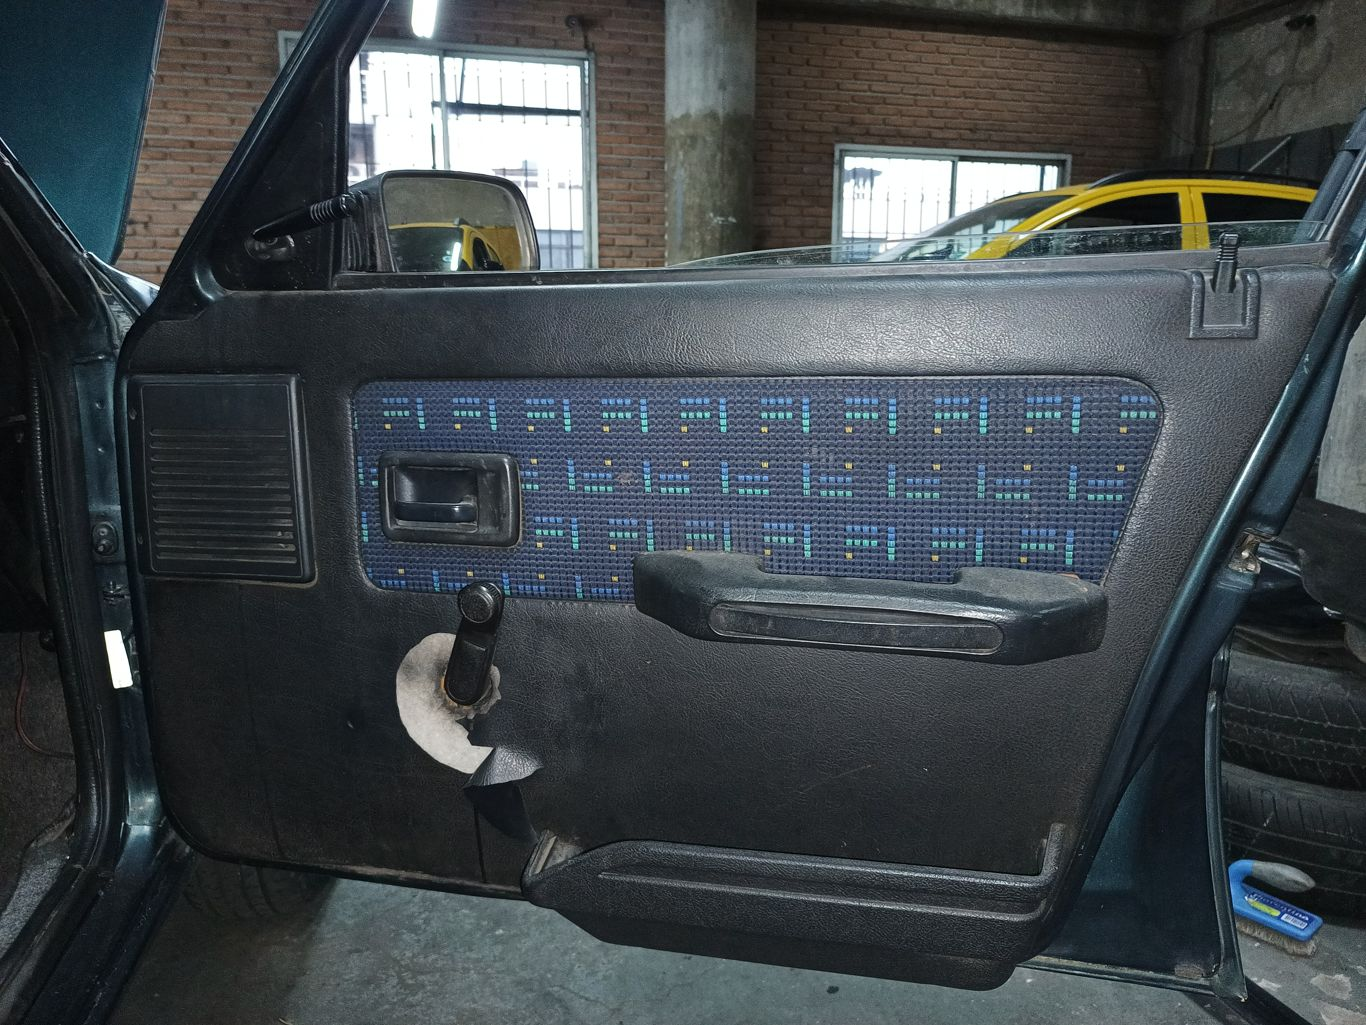
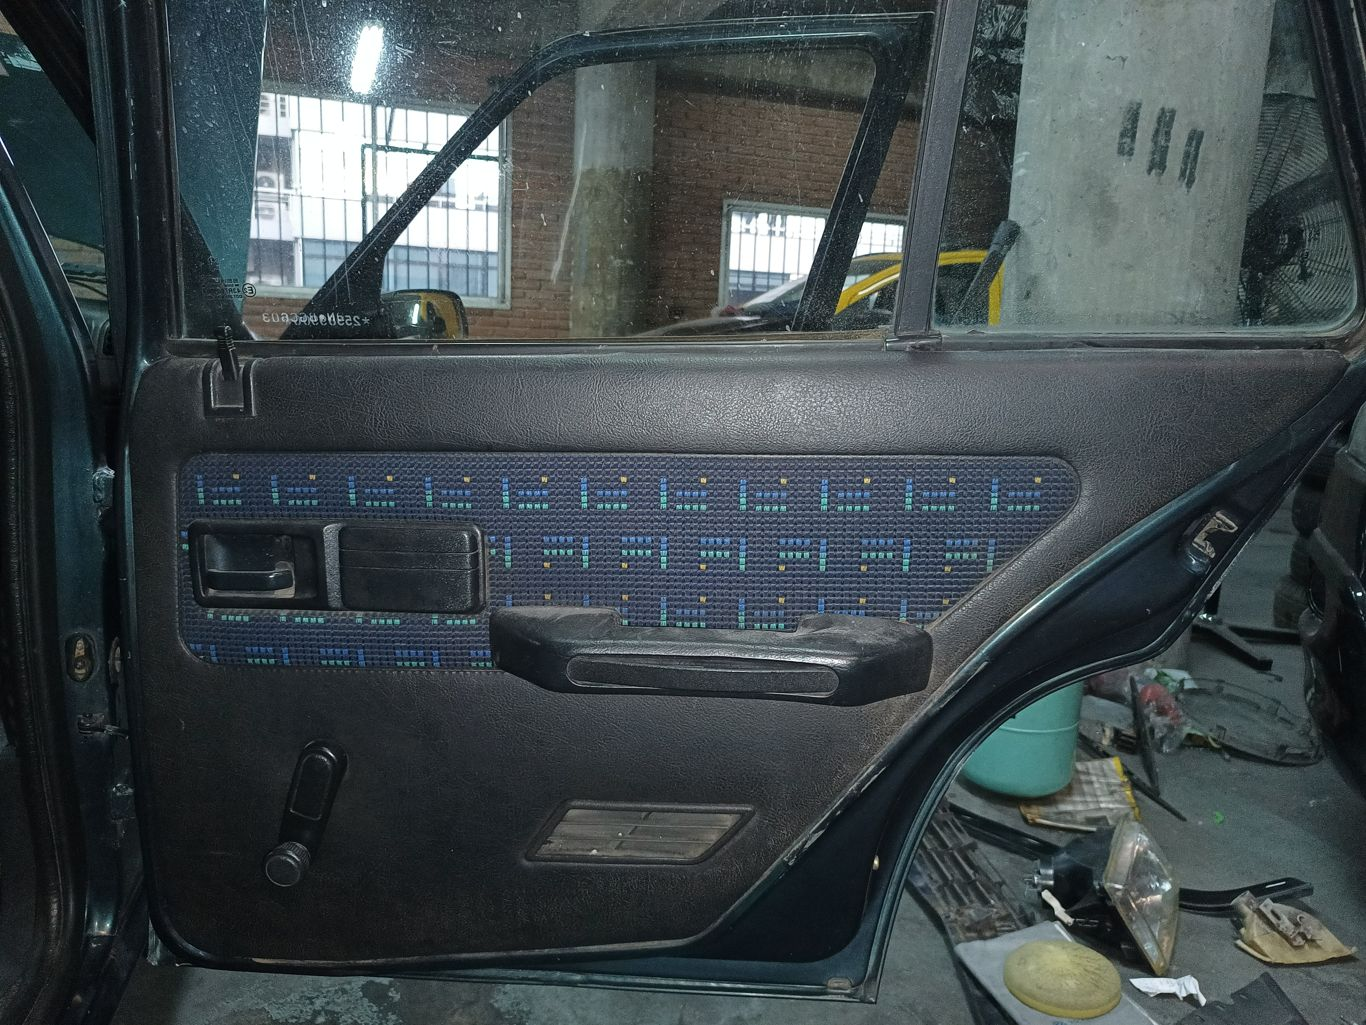
correcion de carrusel

diff --git a/src/data/galeria.ts b/src/data/galeria.ts
@@ -145,6 +145,16 @@ export const TRABAJOS: TrabajoGaleria[] = [
         "parte": "chevrolet interior butaca delantera"
       },
       {
+        "src": "/galeria/detailing-interior/chevrolet-spin/antes/chevrolet-interior-consola-antes-01-20220119.jpg",
+        "alt": "chevrolet interior consola (antes) — Chevrolet Spin",
+        "parte": "chevrolet interior consola"
+      },
+      {
+        "src": "/galeria/detailing-interior/chevrolet-spin/antes/chevrolet-interior-consola-antes-02-20220119.jpg",
+        "alt": "chevrolet interior consola (antes) — Chevrolet Spin",
+        "parte": "chevrolet interior consola"
+      },
+      {
         "src": "/galeria/detailing-interior/chevrolet-spin/antes/chevrolet-interior-panel-puerta-antes-01-20220119.jpg",
         "alt": "chevrolet interior panel puerta (antes) — Chevrolet Spin",
         "parte": "chevrolet interior panel puerta"
@@ -160,12 +170,12 @@ export const TRABAJOS: TrabajoGaleria[] = [
         "parte": "chevrolet interior volante"
       },
       {
-        "src": "/galeria/detailing-interior/chevrolet-spin/antes/chevrolet-spin-baul-despues-01-20220419.jpg",
-        "alt": "baul (antes) — Chevrolet Spin",
-        "parte": "baul"
+        "src": "/galeria/detailing-interior/chevrolet-spin/antes/chevrolet-spin-butaca-delantera-antes-01-20220420.jpg",
+        "alt": "butaca delantera (antes) — Chevrolet Spin",
+        "parte": "butaca delantera"
       },
       {
-        "src": "/galeria/detailing-interior/chevrolet-spin/antes/chevrolet-spin-butaca-delantera-antes-01-20220420.jpg",
+        "src": "/galeria/detailing-interior/chevrolet-spin/antes/chevrolet-spin-butaca-delantera-antes-01-20220426.jpg",
         "alt": "butaca delantera (antes) — Chevrolet Spin",
         "parte": "butaca delantera"
       },
@@ -185,9 +195,9 @@ export const TRABAJOS: TrabajoGaleria[] = [
         "parte": "butaca delantera"
       },
       {
-        "src": "/galeria/detailing-interior/chevrolet-spin/antes/chevrolet-spin-butaca-delantera-despues-03-20220420.jpg",
-        "alt": "butaca delantera (antes) — Chevrolet Spin",
-        "parte": "butaca delantera"
+        "src": "/galeria/detailing-interior/chevrolet-spin/antes/chevrolet-spin-butaca-trasera-antes-01-20220420.jpg",
+        "alt": "butaca trasera (antes) — Chevrolet Spin",
+        "parte": "butaca trasera"
       },
       {
         "src": "/galeria/detailing-interior/chevrolet-spin/antes/chevrolet-spin-consola-antes-01-20220418.jpg",
@@ -201,11 +211,6 @@ export const TRABAJOS: TrabajoGaleria[] = [
       },
       {
         "src": "/galeria/detailing-interior/chevrolet-spin/antes/chevrolet-spin-consola-antes-04-20220418.jpg",
-        "alt": "consola (antes) — Chevrolet Spin",
-        "parte": "consola"
-      },
-      {
-        "src": "/galeria/detailing-interior/chevrolet-spin/antes/chevrolet-spin-consola-despues-02-20220418.jpg",
         "alt": "consola (antes) — Chevrolet Spin",
         "parte": "consola"
       },
@@ -297,16 +302,6 @@ export const TRABAJOS: TrabajoGaleria[] = [
         "parte": "chevrolet interior butaca delantera"
       },
       {
-        "src": "/galeria/detailing-interior/chevrolet-spin/despues/chevrolet-interior-consola-antes-01-20220119.jpg",
-        "alt": "chevrolet interior consola (despues) — Chevrolet Spin",
-        "parte": "chevrolet interior consola"
-      },
-      {
-        "src": "/galeria/detailing-interior/chevrolet-spin/despues/chevrolet-interior-consola-antes-02-20220119.jpg",
-        "alt": "chevrolet interior consola (despues) — Chevrolet Spin",
-        "parte": "chevrolet interior consola"
-      },
-      {
         "src": "/galeria/detailing-interior/chevrolet-spin/despues/chevrolet-interior-panel-puerta-despues-01-20220119.jpg",
         "alt": "chevrolet interior panel puerta (despues) — Chevrolet Spin",
         "parte": "chevrolet interior panel puerta"
@@ -327,14 +322,19 @@ export const TRABAJOS: TrabajoGaleria[] = [
         "parte": "chevrolet interior volante"
       },
       {
-        "src": "/galeria/detailing-interior/chevrolet-spin/despues/chevrolet-spin-butaca-delantera-antes-01-20220426.jpg",
+        "src": "/galeria/detailing-interior/chevrolet-spin/despues/chevrolet-spin-baul-despues-01-20220419.jpg",
+        "alt": "baul (despues) — Chevrolet Spin",
+        "parte": "baul"
+      },
+      {
+        "src": "/galeria/detailing-interior/chevrolet-spin/despues/chevrolet-spin-butaca-delantera-despues-03-20220420.jpg",
         "alt": "butaca delantera (despues) — Chevrolet Spin",
         "parte": "butaca delantera"
       },
       {
-        "src": "/galeria/detailing-interior/chevrolet-spin/despues/chevrolet-spin-butaca-trasera-antes-01-20220420.jpg",
-        "alt": "butaca trasera (despues) — Chevrolet Spin",
-        "parte": "butaca trasera"
+        "src": "/galeria/detailing-interior/chevrolet-spin/despues/chevrolet-spin-consola-despues-02-20220418.jpg",
+        "alt": "consola (despues) — Chevrolet Spin",
+        "parte": "consola"
       },
       {
         "src": "/galeria/detailing-interior/chevrolet-spin/despues/chevrolet-spin-consola-despues-02-20220419.jpg",
@@ -362,18 +362,13 @@ export const TRABAJOS: TrabajoGaleria[] = [
         "parte": "tablero"
       },
       {
-        "src": "/galeria/detailing-interior/chevrolet-spin/despues/chevrolet-spin-techo-antes-01-20220419.jpg",
-        "alt": "techo (despues) — Chevrolet Spin",
-        "parte": "techo"
-      },
-      {
         "src": "/galeria/detailing-interior/chevrolet-spin/despues/chevrolet-spin-techo-despues-04-20220420.jpg",
         "alt": "techo (despues) — Chevrolet Spin",
         "parte": "techo"
       }
     ],
     "portada": "/galeria/detailing-interior/chevrolet-spin/despues/chevrolet-interior-butaca-delantera-despues-01-20220119.jpg",
-    "totalFotos": 54
+    "totalFotos": 53
   },
   {
     "id": "detailing-interior--peugeot-205",
@@ -382,6 +377,11 @@ export const TRABAJOS: TrabajoGaleria[] = [
     "servicio": "Estética interior",
     "titulo": "Peugeot 205 · Estética interior",
     "antes": [
+      {
+        "src": "/galeria/detailing-interior/peugeot-205/antes/peugeot-205-apoyacabezas-antes-01-20220805.jpg",
+        "alt": "apoyacabezas (antes) — Peugeot 205",
+        "parte": "apoyacabezas"
+      },
       {
         "src": "/galeria/detailing-interior/peugeot-205/antes/peugeot-205-baul-antes-01-20220124.jpg",
         "alt": "baul (antes) — Peugeot 205",
@@ -463,7 +463,17 @@ export const TRABAJOS: TrabajoGaleria[] = [
         "parte": "tablero"
       },
       {
+        "src": "/galeria/detailing-interior/peugeot-205/antes/peugeot-205-tablero-antes-01-20220720.jpg",
+        "alt": "tablero (antes) — Peugeot 205",
+        "parte": "tablero"
+      },
+      {
         "src": "/galeria/detailing-interior/peugeot-205/antes/peugeot-205-tablero-antes-02-20220124.jpg",
+        "alt": "tablero (antes) — Peugeot 205",
+        "parte": "tablero"
+      },
+      {
+        "src": "/galeria/detailing-interior/peugeot-205/antes/peugeot-205-tablero-antes-02-20220722.jpg",
         "alt": "tablero (antes) — Peugeot 205",
         "parte": "tablero"
       },
@@ -521,19 +531,9 @@ export const TRABAJOS: TrabajoGaleria[] = [
         "src": "/galeria/detailing-interior/peugeot-205/antes/peugeot-205-techo-antes-06-20220712.jpg",
         "alt": "techo (antes) — Peugeot 205",
         "parte": "techo"
-      },
-      {
-        "src": "/galeria/detailing-interior/peugeot-205/antes/peugeot-205-techo-despues-07-20220713.jpg",
-        "alt": "techo (antes) — Peugeot 205",
-        "parte": "techo"
       }
     ],
     "despues": [
-      {
-        "src": "/galeria/detailing-interior/peugeot-205/despues/peugeot-205-apoyacabezas-antes-01-20220805.jpg",
-        "alt": "apoyacabezas (despues) — Peugeot 205",
-        "parte": "apoyacabezas"
-      },
       {
         "src": "/galeria/detailing-interior/peugeot-205/despues/peugeot-205-butaca-delantera-despues-01-20220805.jpg",
         "alt": "butaca delantera (despues) — Peugeot 205",
@@ -573,11 +573,6 @@ export const TRABAJOS: TrabajoGaleria[] = [
         "src": "/galeria/detailing-interior/peugeot-205/despues/peugeot-205-interior-general-despues-01-20220805.jpg",
         "alt": "interior general (despues) — Peugeot 205",
         "parte": "interior general"
-      },
-      {
-        "src": "/galeria/detailing-interior/peugeot-205/despues/peugeot-205-panel-puerta-antes-01-20220718.jpg",
-        "alt": "panel puerta (despues) — Peugeot 205",
-        "parte": "panel puerta"
       },
       {
         "src": "/galeria/detailing-interior/peugeot-205/despues/peugeot-205-panel-puerta-despues-02-20220718.jpg",
@@ -625,16 +620,6 @@ export const TRABAJOS: TrabajoGaleria[] = [
         "parte": "pieza"
       },
       {
-        "src": "/galeria/detailing-interior/peugeot-205/despues/peugeot-205-tablero-antes-01-20220720.jpg",
-        "alt": "tablero (despues) — Peugeot 205",
-        "parte": "tablero"
-      },
-      {
-        "src": "/galeria/detailing-interior/peugeot-205/despues/peugeot-205-tablero-antes-02-20220722.jpg",
-        "alt": "tablero (despues) — Peugeot 205",
-        "parte": "tablero"
-      },
-      {
         "src": "/galeria/detailing-interior/peugeot-205/despues/peugeot-205-tablero-despues-03-20220722.jpg",
         "alt": "tablero (despues) — Peugeot 205",
         "parte": "tablero"
@@ -643,10 +628,15 @@ export const TRABAJOS: TrabajoGaleria[] = [
         "src": "/galeria/detailing-interior/peugeot-205/despues/peugeot-205-techo-despues-01-20220712.jpg",
         "alt": "techo (despues) — Peugeot 205",
         "parte": "techo"
+      },
+      {
+        "src": "/galeria/detailing-interior/peugeot-205/despues/peugeot-205-techo-despues-07-20220713.jpg",
+        "alt": "techo (despues) — Peugeot 205",
+        "parte": "techo"
       }
     ],
-    "portada": "/galeria/detailing-interior/peugeot-205/despues/peugeot-205-apoyacabezas-antes-01-20220805.jpg",
-    "totalFotos": 52
+    "portada": "/galeria/detailing-interior/peugeot-205/despues/peugeot-205-butaca-delantera-despues-01-20220805.jpg",
+    "totalFotos": 51
   },
   {
     "id": "detailing-interior--chevrolet-corsa",
@@ -726,16 +716,6 @@ export const TRABAJOS: TrabajoGaleria[] = [
         "parte": "panel puerta"
       },
       {
-        "src": "/galeria/detailing-interior/chevrolet-corsa/antes/chevrolet-corsa-panel-puerta-despues-04-20220327.jpg",
-        "alt": "panel puerta (antes) — Chevrolet Corsa",
-        "parte": "panel puerta"
-      },
-      {
-        "src": "/galeria/detailing-interior/chevrolet-corsa/antes/chevrolet-corsa-panel-puerta-despues-05-20220327.jpg",
-        "alt": "panel puerta (antes) — Chevrolet Corsa",
-        "parte": "panel puerta"
-      },
-      {
         "src": "/galeria/detailing-interior/chevrolet-corsa/antes/chevrolet-corsa-piso-antes-01-20220326.jpg",
         "alt": "piso (antes) — Chevrolet Corsa",
         "parte": "piso"
@@ -761,6 +741,16 @@ export const TRABAJOS: TrabajoGaleria[] = [
         "src": "/galeria/detailing-interior/chevrolet-corsa/despues/chevrolet-corsa-butaca-trasera-despues-01-20220327.jpg",
         "alt": "butaca trasera (despues) — Chevrolet Corsa",
         "parte": "butaca trasera"
+      },
+      {
+        "src": "/galeria/detailing-interior/chevrolet-corsa/despues/chevrolet-corsa-panel-puerta-despues-04-20220327.jpg",
+        "alt": "panel puerta (despues) — Chevrolet Corsa",
+        "parte": "panel puerta"
+      },
+      {
+        "src": "/galeria/detailing-interior/chevrolet-corsa/despues/chevrolet-corsa-panel-puerta-despues-05-20220327.jpg",
+        "alt": "panel puerta (despues) — Chevrolet Corsa",
+        "parte": "panel puerta"
       }
     ],
     "portada": "/galeria/detailing-interior/chevrolet-corsa/despues/chevrolet-corsa-butaca-delantera-despues-01-20220326.jpg",

diff --git a/src/components/ArticleCTA.tsx b/src/components/ArticleCTA.tsx
@@ -1,12 +1,19 @@
 import Link from 'next/link';
 import { ArrowRight } from 'lucide-react';
-import { BUSINESS_INFO } from '@/lib/utils';
 import { WhatsAppIcon } from '@/components/WhatsAppIcon';
 import { SERVICIOS } from '@/data/servicios';
 
+const WHATSAPP_NUMBER = '5491155812216';
+
+function buildWhatsAppUrl(message: string) {
+  return `https://wa.me/${WHATSAPP_NUMBER}?text=${encodeURIComponent(message)}`;
+}
+
 /** Bloque de cierre de cada artículo: lleva la lectura al WhatsApp y al servicio relacionado. */
-export default function ArticleCTA({ servicioSlug }: { servicioSlug?: string }) {
+export default function ArticleCTA({ servicioSlug, postTitle }: { servicioSlug?: string; postTitle: string }) {
   const servicio = SERVICIOS.find((s) => s.slug === servicioSlug);
+  const whatsappMessage = `Hola VG Car Service, quería consultar sobre ${postTitle}.`;
+  const whatsappUrl = buildWhatsAppUrl(whatsappMessage);
 
   return (
     <aside className="mt-12 rounded-2xl border border-brand-cyan/30 bg-gradient-to-br from-gray-800/80 to-gray-900 p-6 sm:p-8">
@@ -23,7 +30,7 @@ export default function ArticleCTA({ servicioSlug }: { servicioSlug?: string }) 
 
       <div className="mt-6 flex flex-wrap gap-4">
         <a
-          href={BUSINESS_INFO.whatsappUrl}
+          href={whatsappUrl}
           target="_blank"
           rel="noopener noreferrer"
           className="inline-flex items-center gap-2 rounded-lg bg-[#25D366] px-7 py-3.5 text-base font-semibold text-white transition-colors hover:bg-[#1fb457]"

diff --git a/src/app/blog/[slug]/page.tsx b/src/app/blog/[slug]/page.tsx
@@ -102,7 +102,7 @@ export default function ArticuloPage({ params }: { params: { slug: string } }) {
             <ReactMarkdown remarkPlugins={[remarkGfm]}>{post.content}</ReactMarkdown>
           </div>
 
-          <ArticleCTA servicioSlug={post.servicioRelacionado} />
+          <ArticleCTA servicioSlug={post.servicioRelacionado} postTitle={post.title} />
         </div>
       </article>
     </main>